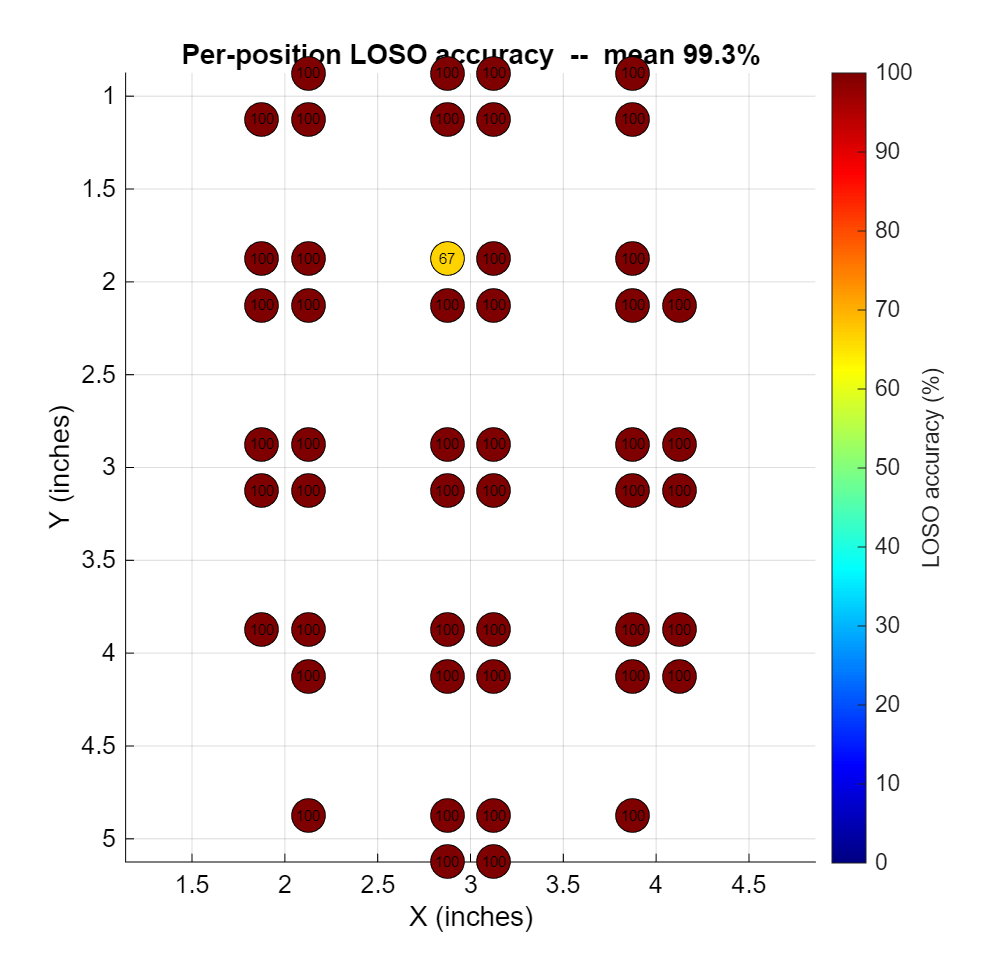
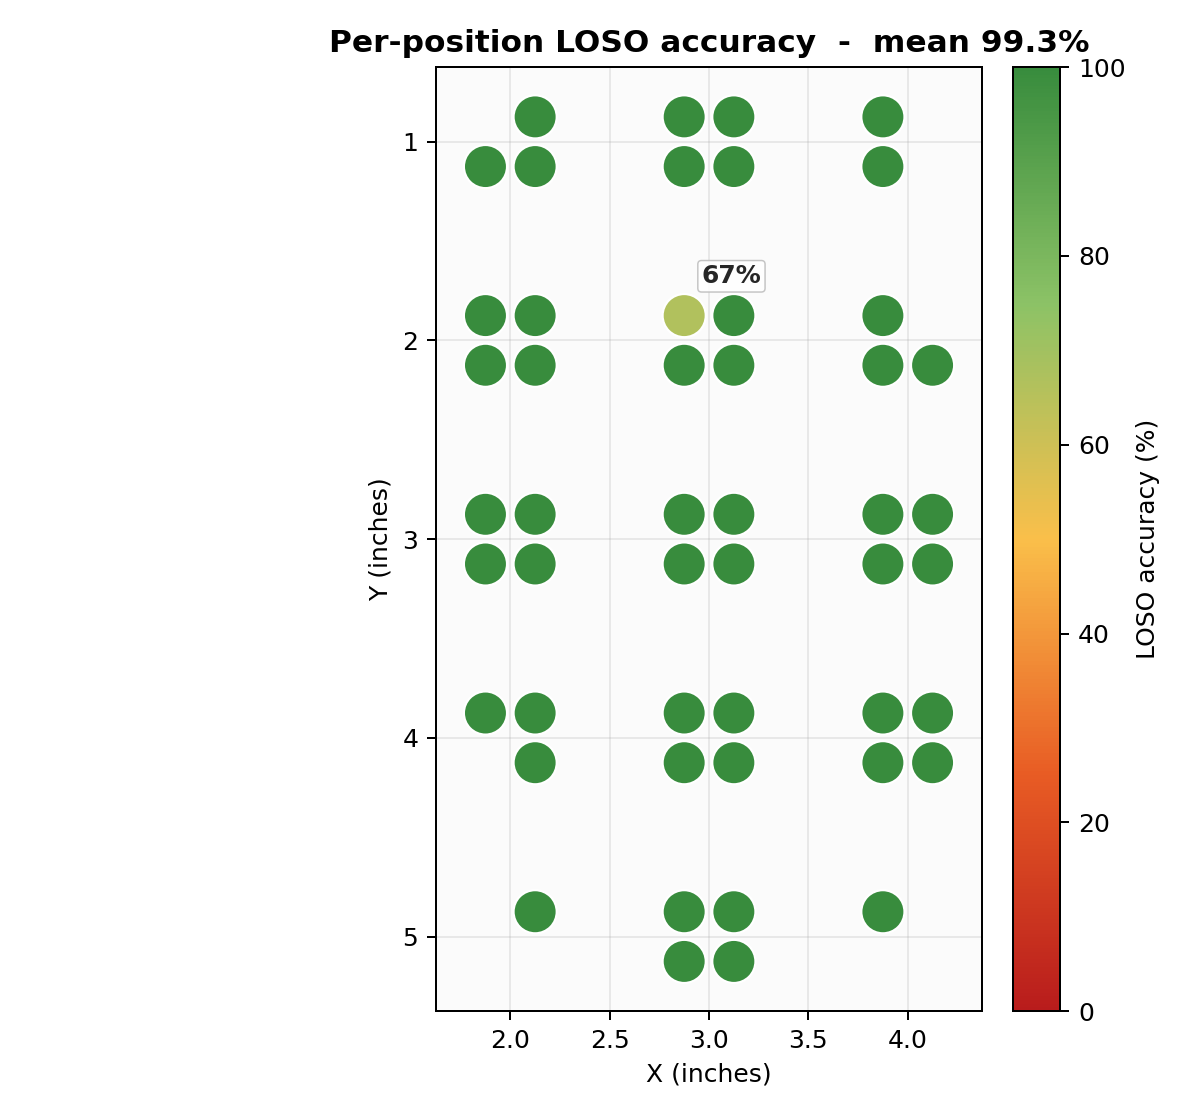
Spatial plots: green=100%% colormap, non-overlapping markers and labels; add replot_spatial.py

diff --git a/replot_spatial.py b/replot_spatial.py
@@ -1,0 +1,71 @@
+"""Regenerate the per-position spatial accuracy map from a result JSON with
+the improved style: red (0%) -> yellow -> green (100%) colormap, markers
+sized from the grid spacing so neighbours never touch, and labels only on
+imperfect positions, offset beside the dot.
+
+Usage (any shell, from the "CNN vs MLP" folder):
+    python replot_spatial.py results/cnn_loso_Aug18_metal_raw_all_ant1-2-3-4.json [...]
+Overwrites the matching *_spatial.png next to each JSON.
+"""
+from __future__ import annotations
+import json, sys
+from pathlib import Path
+import numpy as np
+import matplotlib
+matplotlib.use("Agg")
+import matplotlib.pyplot as plt
+from matplotlib.colors import LinearSegmentedColormap
+
+ACC_CMAP = LinearSegmentedColormap.from_list(
+    "acc", ["#B81C1C", "#E85C24", "#FABF4A", "#8CC266", "#388C3D"])
+
+
+def replot(json_path: Path):
+    r = json.loads(json_path.read_text())
+    pos = r["perPosition"]
+    xs = np.array([p["x"] for p in pos], float)
+    ys = np.array([p["y"] for p in pos], float)
+    accs = np.array([p["acc"] for p in pos], float)
+
+    d = np.hypot(xs[:, None] - xs[None, :], ys[:, None] - ys[None, :])
+    d[d == 0] = np.inf
+    gap = d.min()                       # nearest-neighbour spacing (inches)
+
+    fig, ax = plt.subplots(figsize=(6.6, 6.2))
+    span = max(np.ptp(xs), np.ptp(ys)) + gap
+    mk_pt = 0.80 * gap / span * 5.4 * 72   # marker diameter in points
+    sc = ax.scatter(xs, ys, s=mk_pt**2, c=accs, cmap=ACC_CMAP,
+                    vmin=0, vmax=100, edgecolors="white", linewidths=0.9, zorder=3)
+    x_mid = (xs.min() + xs.max()) / 2
+    for x, y, a in zip(xs, ys, accs):
+        if a < 99.5:
+            # diagonal offset, flipped away from the nearest plot edge
+            right = x <= x_mid
+            ax.annotate(f"{a:.0f}%", (x, y),
+                        xytext=(x + (0.35 if right else -0.35) * gap, y - 0.55 * gap),
+                        fontsize=10, fontweight="bold", color="#262626",
+                        ha="left" if right else "right", va="bottom", zorder=5,
+                        bbox=dict(boxstyle="round,pad=0.15", fc="white",
+                                  ec="#BBBBBB", lw=0.6, alpha=0.85))
+    cb = fig.colorbar(sc, ax=ax, fraction=0.046, pad=0.03)
+    cb.set_label("LOSO accuracy (%)")
+    ax.invert_yaxis()
+    ax.set_aspect("equal")
+    ax.set_facecolor("#FBFBFB")
+    ax.grid(alpha=0.25, zorder=0)
+    ax.set_xlim(xs.min() - gap, xs.max() + gap)
+    ax.set_ylim(ys.max() + gap, ys.min() - gap)
+    ax.set_xlabel("X (inches)")
+    ax.set_ylabel("Y (inches)")
+    ax.set_title(f"Per-position LOSO accuracy  -  mean {accs.mean():.1f}%",
+                 fontsize=12.5, fontweight="bold")
+    out = json_path.with_name(json_path.stem + "_spatial.png")
+    fig.tight_layout()
+    fig.savefig(out, dpi=180)
+    plt.close(fig)
+    print("wrote", out)
+
+
+if __name__ == "__main__":
+    for arg in sys.argv[1:]:
+        replot(Path(arg))

diff --git a/cnn_matlab/Imager_CNN_LOSO.m b/cnn_matlab/Imager_CNN_LOSO.m
@@ -405,14 +405,39 @@ grid on;
 saveas(figBar, fullfile(resultsDir, sprintf('cnn_loso_%s_bars.png', tag)));
 
 % ----- spatial overlay of per-position accuracy -----
+% Red (0%) -> orange -> yellow -> green (100%); markers sized from grid
+% spacing so neighbours never touch; only imperfect positions get a label,
+% offset beside the dot so text never overlaps markers.
 figSp = figure('Name', 'CNN LOSO spatial', 'Position', [150 120 640 620], 'Visible', figVis);
 xs = [posAccMap.x]; ys = [posAccMap.y]; accs = [posAccMap.acc];
-scatter(xs, ys, 260, accs, 'filled', 'MarkerEdgeColor', 'k'); hold on;
+dxy = hypot(xs(:) - xs(:)', ys(:) - ys(:)');   % no toolbox dependency
+dxy(dxy == 0) = inf;
+minGap = min(dxy(:));                     % nearest-neighbour spacing (inches)
+axSz = 500;                               % approx axes size in points
+span = max(max(xs)-min(xs), max(ys)-min(ys)) + minGap;
+mkPt = 0.80 * minGap / span * axSz;       % marker diameter in points
+scatter(xs, ys, mkPt^2, accs, 'filled', ...
+    'MarkerEdgeColor', [1 1 1], 'LineWidth', 0.75); hold on;
+xMid = (min(xs) + max(xs)) / 2;
 for i = 1:numel(accs)
-    text(xs(i), ys(i), sprintf('%.0f', accs(i)), 'HorizontalAlignment', 'center', 'FontSize', 7);
+    if accs(i) < 99.5
+        % diagonal offset (y is reversed), flipped away from the nearest edge
+        if xs(i) <= xMid, dx = 0.35*minGap; ha = 'left';
+        else,             dx = -0.35*minGap; ha = 'right'; end
+        text(xs(i) + dx, ys(i) - 0.55*minGap, sprintf('%.0f%%', accs(i)), ...
+            'HorizontalAlignment', ha, 'VerticalAlignment', 'bottom', ...
+            'FontSize', 9, 'FontWeight', 'bold', 'Color', [0.15 0.15 0.15], ...
+            'BackgroundColor', [1 1 1 0.85], 'EdgeColor', [0.73 0.73 0.73], ...
+            'Margin', 1);
+    end
 end
-colormap(gca, jet); caxis([0 100]); cb = colorbar; cb.Label.String = 'LOSO accuracy (%)';
-set(gca, 'YDir', 'reverse'); axis equal; grid on;
+accMap = [0.72 0.11 0.11; 0.91 0.36 0.14; 0.98 0.75 0.29; 0.55 0.76 0.40; 0.22 0.55 0.24];
+colormap(gca, interp1(linspace(0,1,size(accMap,1)), accMap, linspace(0,1,256)));
+caxis([0 100]); cb = colorbar; cb.Label.String = 'LOSO accuracy (%)';
+set(gca, 'YDir', 'reverse'); axis equal; grid on; box on;
+set(gca, 'Color', [0.985 0.985 0.985], 'GridAlpha', 0.25);
+pad = minGap;
+xlim([min(xs)-pad max(xs)+pad]); ylim([min(ys)-pad max(ys)+pad]);
 xlabel('X (inches)'); ylabel('Y (inches)');
 title(sprintf('Per-position LOSO accuracy  --  mean %.1f%%', mean(accs)), 'Interpreter', 'none');
 saveas(figSp, fullfile(resultsDir, sprintf('cnn_loso_%s_spatial.png', tag)));

diff --git a/docs/CHANGELOG.md b/docs/CHANGELOG.md
@@ -4,6 +4,16 @@ Running log of what changed, when, and why. Newest first. Each substantive
 change to code, method, or results should land as its own commit with a matching
 entry here.
 
+## 2026-08-18 - Spatial accuracy plots restyled (green = 100%)
+
+- `Imager_CNN_LOSO.m` spatial figure + new `replot_spatial.py` (regenerates any
+  existing result's spatial PNG from its JSON, no retraining): red->yellow->
+  green colormap (100% = green), markers sized from grid spacing so neighbours
+  never touch, labels only on imperfect positions in white callout boxes,
+  offset diagonally and flipped away from the nearest plot edge.
+- Aug18 metal + beet spatial PNGs regenerated in the new style.
+
+
 ## 2026-08-18 - Aug18 A3 metal-tumor and beet-1cm LOSO (main CNN)
 
 - New Aug18 data (Separated/Aug18): 3 metal-tumor + 3 beet-1cm sessions,
